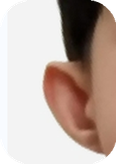
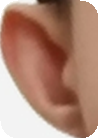
Tighten Jaemin ear puzzle pieces

diff --git a/index.html b/index.html
@@ -18,7 +18,7 @@
   <link rel="stylesheet" href="./css/features/recycling-game.css?v=294" />
   <link rel="stylesheet" href="./css/features/mart-cart-game.css?v=301" />
   <link rel="stylesheet" href="./css/features/traffic-light-game.css?v=307" />
-  <link rel="stylesheet" href="./css/features/face-parts-game.css?v=324" />
+  <link rel="stylesheet" href="./css/features/face-parts-game.css?v=325" />
   <link rel="stylesheet" href="./css/date-overrides.css?v=231" />
 </head>
 <body>
@@ -66,7 +66,7 @@
   <script src="./js/features/recycling-game.js?v=294"></script>
   <script src="./js/features/mart-cart-game.js?v=310"></script>
   <script src="./js/features/traffic-light-game.js?v=307"></script>
-  <script src="./js/features/face-parts-game.js?v=324"></script>
+  <script src="./js/features/face-parts-game.js?v=325"></script>
   <script src="./js/main.js?v=311"></script>
   <script>
     if ('serviceWorker' in navigator) {

diff --git a/css/features/face-parts-game.css b/css/features/face-parts-game.css
@@ -181,13 +181,13 @@
 
 .face-game-face--photo .face-game-slot--leftEar,
 .face-game-face--photo .face-game-slot--rightEar {
-  top: 42.448%;
-  width: 22.396%;
-  height: 31.771%;
+  top: 53.906%;
+  width: 12.760%;
+  height: 17.969%;
 }
 
-.face-game-face--photo .face-game-slot--leftEar { left: 6.25%; }
-.face-game-face--photo .face-game-slot--rightEar { left: 71.354%; }
+.face-game-face--photo .face-game-slot--leftEar { left: 14.583%; }
+.face-game-face--photo .face-game-slot--rightEar { left: 72.396%; }
 
 .face-game-face--photo .face-game-slot--nose {
   left: 42.448%;
@@ -319,8 +319,8 @@
 }
 
 .face-game-tile .face-game-art--ear.face-game-art--photo {
-  width: 124px;
-  height: 180px;
+  width: 112px;
+  height: 158px;
 }
 
 .face-game-tile:has(.face-game-art--photo) {

diff --git a/sw.js b/sw.js
@@ -4,7 +4,7 @@
  * On first visit, pre-caches all images so subsequent loads are instant.
  */
 
-const CACHE_VERSION = 'v324';
+const CACHE_VERSION = 'v325';
 const CACHE_NAME = `jaemin-aac-${CACHE_VERSION}`;
 
 self.addEventListener('message', (event) => {
